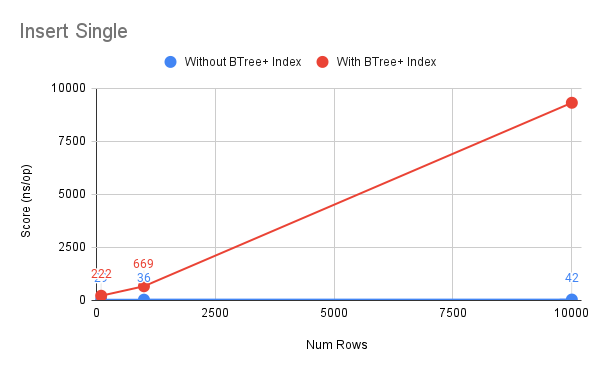
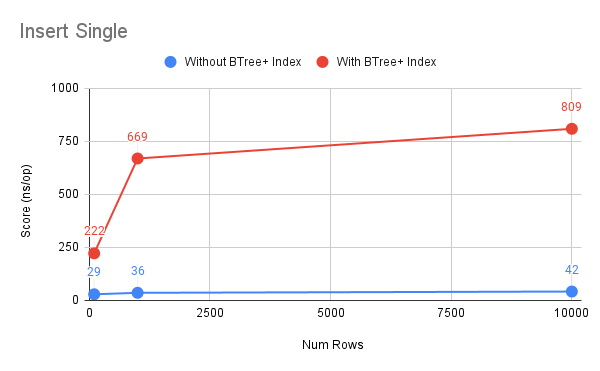
Fix in insert algorithm

diff --git a/src/main/java/fr/miage/fsgbd/Column.java b/src/main/java/fr/miage/fsgbd/Column.java
@@ -88,10 +88,9 @@ public class Column<TKind extends Comparable<? super TKind>> implements IColumn 
      * @param value la valeur à supprimer
      */
     public void removeValue(TKind value) {
-        values.remove(value);
-
-        if (index != null) {
-            enableIndex(branchingFactor);
+        int row = search(value);
+        if (row >= 0) {
+            removeAt(row);
         }
     }
 

diff --git a/src/main/java/fr/miage/fsgbd/Table.java b/src/main/java/fr/miage/fsgbd/Table.java
@@ -59,7 +59,7 @@ public class Table implements Serializable {
         for (int i = 0; i < row.length; i++) {
             IColumn column = columns.get(i);
             if (column.isIndexed() && column.contains(row[i])) {
-// L'index ne supporte pas les doublons
+                // L'index ne supporte pas les doublons
                 return false;
             }
         }

diff --git a/README.md b/README.md
@@ -24,42 +24,41 @@ Le programme permet de :
 - Charger une table depuis un fichier (via ObjectInputStream)
 - Exporter une table dans un fichier CSV
 - Importer une table depuis un fichier CSV
-- Benchmark de la table (avec et sans index)
+- Benchmark de la table (avec et sans index) en utilisant un simple benchmark ou JMH
 
-### Résultats du benchmark testant l'insertion et la recherche avec et sans index BTree+
+### Résultats du benchmark testant l'insertion et la recherche avec et sans index BTree+ (JMH)
 
 Voici les résultats qu'on a obtenu en faisant tourner le benchmark sur notre machine (AMD Ryzen 9 5900X, 32GB RAM) :
 
-|     Benchmark    |  size | Score (ns/op) | Mode | Cnt |  Error |
+|     Benchmark    |  size | Score (ns/op) | Mode | Cnt | Error  |
 |:----------------:|:-----:|:-------------:|:----:|:---:|:------:|
-| insert           | 100   | 29            | avgt | 9   | ± 1    |
-| insert           | 1000  | 36            | avgt | 9   | ± 9    |
-| insert           | 10000 | 42            | avgt | 9   | ± 10   |
-| insertBTree      | 100   | 222           | avgt | 9   | ± 7    |
-| insertBTree      | 1000  | 669           | avgt | 9   | ± 75   |
-| insertBTree      | 10000 | 9317          | avgt | 9   | ± 468  |
-| selectFirst      | 100   | 31            | avgt | 9   | ± 1    |
-| selectFirst      | 1000  | 31            | avgt | 9   | ± 1    |
-| selectFirst      | 10000 | 31            | avgt | 9   | ± 1    |
-| selectFirstBTree | 100   | 45            | avgt | 9   | ± 1    |
-| selectFirstBTree | 1000  | 57            | avgt | 9   | ± 2    |
-| selectFirstBTree | 10000 | 67            | avgt | 9   | ± 3    |
-| selectLast       | 100   | 65            | avgt | 9   | ± 2    |
-| selectLast       | 1000  | 622           | avgt | 9   | ± 52   |
-| selectLast       | 10000 | 8316          | avgt | 9   | ± 1005 |
-| selectLastBTree  | 100   | 58            | avgt | 9   | ± 2    |
-| selectLastBTree  | 1000  | 71            | avgt | 9   | ± 6    |
-| selectLastBTree  | 10000 | 83            | avgt | 9   | ± 3    |
+| insert           | 100   |      29       | avgt | 9   |  ± 1   |
+| insert           | 1000  |      36       | avgt | 9   |  ± 9   |
+| insert           | 10000 |      42       | avgt | 9   |  ± 10  |
+| insertBTree      | 100   |      222      | avgt | 9   |  ± 7   |
+| insertBTree      | 1000  |      669      | avgt | 9   |  ± 75  |
+| insertBTree      | 10000 |      809      | avgt | 9   |  ± 81  |
+| selectFirst      | 100   |      31       | avgt | 9   |  ± 1   |
+| selectFirst      | 1000  |      31       | avgt | 9   |  ± 1   |
+| selectFirst      | 10000 |      31       | avgt | 9   |  ± 1   |
+| selectFirstBTree | 100   |      45       | avgt | 9   |  ± 1   |
+| selectFirstBTree | 1000  |      57       | avgt | 9   |  ± 2   |
+| selectFirstBTree | 10000 |      67       | avgt | 9   |  ± 3   |
+| selectLast       | 100   |      65       | avgt | 9   |  ± 2   |
+| selectLast       | 1000  |      622      | avgt | 9   |  ± 52  |
+| selectLast       | 10000 |     8316      | avgt | 9   | ± 1005 |
+| selectLastBTree  | 100   |      58       | avgt | 9   |  ± 2   |
+| selectLastBTree  | 1000  |      71       | avgt | 9   |  ± 6   |
+| selectLastBTree  | 10000 |      83       | avgt | 9   |  ± 3   |
 
 ![Insert Single Result](img/insert-single.png)  
-Complexité : Sans index (O(1)) / Avec index (0(n))
+Complexité : Sans index (O(1)) / Avec index (0(log(n)))
 
 ![Select First Result](img/select-first.png)  
 Complexité : Sans index (O(1)) / Avec index (O(log(n)))
 
 ![Select Last Result](img/select-last.png)  
 Complexité : Sans index (O(n)) / Avec index (O(log(n)))
-
 
 On peut conclure que l'insertion est plus rapide sans index.  
 En revanche, le résultat de la recherche varie en fonction de la taille de la table.  
